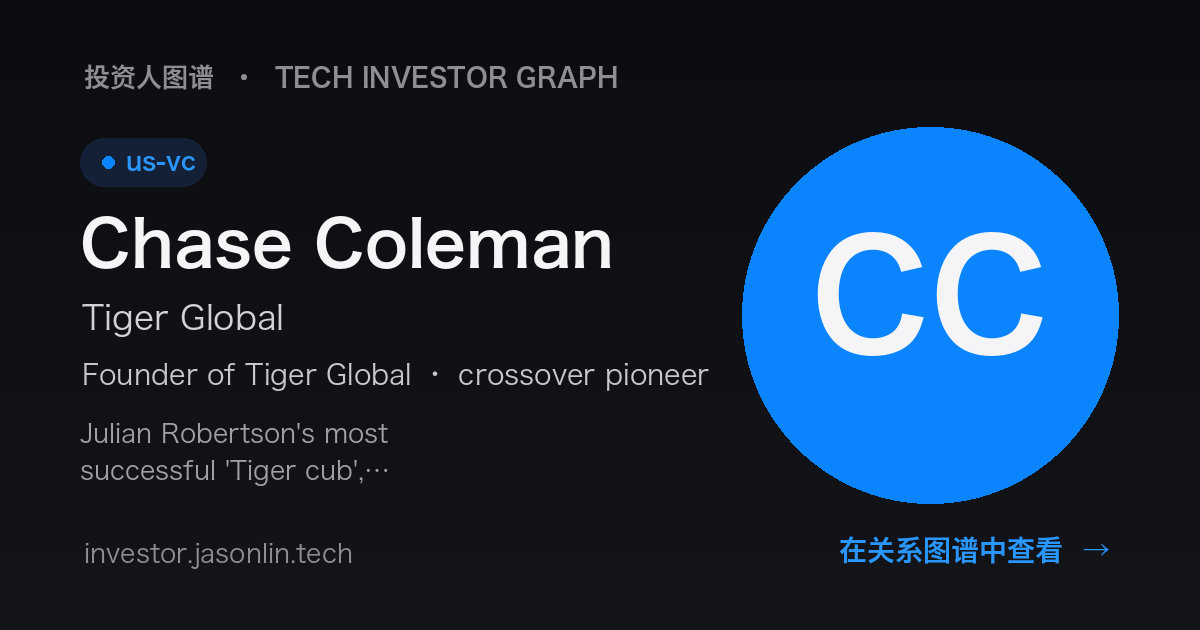
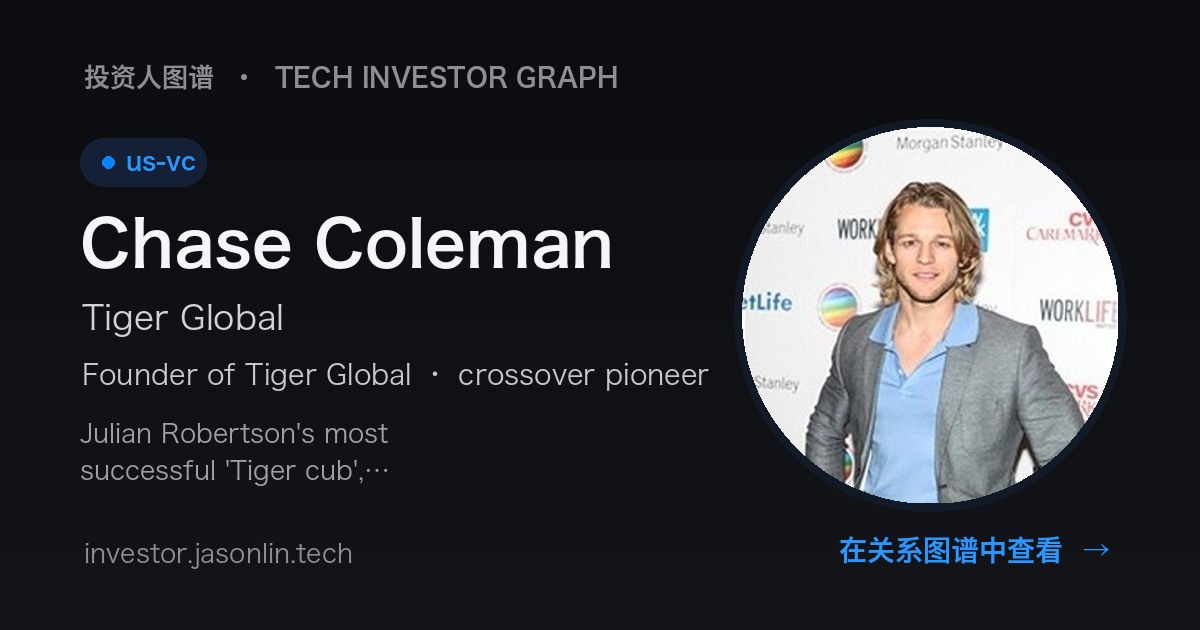
fix: 重生成 13 张无样式的人物分享页(生成器误取小 <style>)+ html lang=zh-CN
graph_share_pages.py 的 donor_parts 取第一个 <style>,而 2026-08-15 起页面 head 顶部多了一个几十字节的深色小块,导致此后生成的每一页都没有主样式表——黑底裸 HTML,用户点分享链接看到的就是这个。用真实浏览器截图才发现,四站共 46 页。

Claude-Session: https://claude.ai/code/session_01J8uaPH9eMgzrHih7Y7Prm5

Changed region(s): [[0.6167, 0.181, 0.9558, 0.8143]]

diff --git a/p/traviskalanick.html b/p/traviskalanick.html
@@ -17,20 +17,47 @@
 <meta name="twitter:title" content="Travis Kalanick"><meta name="twitter:description" content="Built Uber into a global category-definer before being forced out in 2017. Now runs CloudKitchens, a ghost-kitchen real-estate and robotics play value…">
 <meta name="twitter:image" content="https://investor.jasonlin.tech/og/traviskalanick.png">
 <script type="application/ld+json">{"@context": "https://schema.org", "@type": "ProfilePage", "mainEntity": {"@type": "Person", "name": "Travis Kalanick", "alternateName": "Travis Kalanick", "jobTitle": "Founder of Uber · CEO of CloudKitchens", "worksFor": {"@type": "Organization", "name": "CloudKitchens"}, "description": "Built Uber into a global category-definer before being forced out in 2017. Now runs CloudKitchens, a ghost-kitchen real-estate and robotics play value", "url": "https://investor.jasonlin.tech/p/traviskalanick.html", "image": "https://investor.jasonlin.tech/og/traviskalanick.png"}}</script>
-<style>:root{color-scheme:dark}html{background:#000}</style></head><body>
+<style>
+:root{--bg:#000;--card:#1d1d1f;--fg:#f5f5f7;--mut:#a1a1a6;--blue:#2997ff}
+*{box-sizing:border-box}body{margin:0;background:var(--bg);color:var(--fg);
+font-family:'PingFang SC','SF Pro Text',-apple-system,system-ui,Helvetica,Arial,sans-serif;line-height:1.6}
+.wrap{max-width:760px;margin:0 auto;padding:56px 24px 96px}
+.eyebrow{font-size:13px;letter-spacing:.12em;text-transform:uppercase;color:#86868b;text-decoration:none}
+h1{font-size:40px;margin:22px 0 6px;letter-spacing:-.01em}
+.org{font-size:20px;color:var(--mut);margin:0 0 4px}
+.role{font-size:18px;color:var(--blue);margin:10px 0 0;font-weight:600}
+.fields{margin:18px 0 0}.tag{display:inline-block;font-size:13px;color:var(--mut);border:1px solid #333;border-radius:999px;padding:3px 12px;margin:0 8px 8px 0}
+.bio{font-size:18px;color:#d2d2d7;margin:28px 0;white-space:pre-wrap}
+.avatar{width:108px;height:108px;border-radius:50%;object-fit:cover;display:block;margin:8px 0 4px;background:#1c1c1e;box-shadow:0 0 0 1px rgba(255,255,255,.1)}
+.avatar.mono{display:flex;align-items:center;justify-content:center;font:700 42px/1 'SF Pro Display',-apple-system,sans-serif;color:#fff;letter-spacing:.01em}
+.langtoggle{position:fixed;top:18px;right:20px;z-index:50;min-width:46px;padding:7px 14px;border-radius:999px;background:rgba(255,255,255,.08);color:var(--fg);border:1px solid rgba(255,255,255,.16);font:600 14px/1 'PingFang SC','SF Pro Text',-apple-system,system-ui,sans-serif;cursor:pointer;-webkit-tap-highlight-color:transparent;backdrop-filter:saturate(180%) blur(12px);-webkit-backdrop-filter:saturate(180%) blur(12px)}
+.langtoggle:hover{background:rgba(255,255,255,.16)}
+html.lang-zh .i18n-en{display:none}html.lang-en .i18n-zh{display:none}
+@media(max-width:520px){.langtoggle{top:12px;right:12px}}
+h2{font-size:14px;letter-spacing:.08em;text-transform:uppercase;color:#86868b;margin:40px 0 14px}
+ul{list-style:none;padding:0;margin:0}li{padding:8px 0;border-bottom:1px solid #1a1a1a;font-size:16px;color:#d2d2d7}
+.y{display:inline-block;min-width:52px;color:#6e6e73;font-variant-numeric:tabular-nums}
+li a,.bio a{color:var(--blue);text-decoration:none}
+.nbr{display:flex;flex-direction:column;padding:12px 14px;background:var(--card);border-radius:12px;margin:0 0 10px;text-decoration:none;color:var(--fg)}
+.nbr b{font-size:16px}.nbr span{font-size:13px;color:var(--mut);margin-top:2px}
+.cta{display:inline-block;margin:30px 12px 0 0;padding:14px 26px;background:var(--blue);color:#fff;border-radius:999px;text-decoration:none;font-weight:600;font-size:17px}
+.cta2{display:inline-block;margin:30px 0 0;padding:14px 26px;background:rgba(124,92,255,.16);color:#cbb9ff;border-radius:999px;text-decoration:none;font-weight:600;font-size:17px}
+.back{display:inline-block;margin-top:36px;color:var(--mut);text-decoration:none;font-size:15px}
+@media(max-width:520px){h1{font-size:32px}.wrap{padding:36px 18px 72px}}
+</style></head><body>
 <button class="langtoggle" id="langtoggle" type="button" aria-label="切换语言 / Toggle language"><span class="i18n-zh">EN</span><span class="i18n-en">中</span></button>
 <div class="wrap">
 <a class="eyebrow" href="/"><span class="i18n-zh">投资人图谱</span><span class="i18n-en">Tech Investor Graph</span> ↗</a>
-<div class="avatar mono" style="background:linear-gradient(145deg,#ff9f0aeb,#ff9f0a80);box-shadow:0 0 0 1px rgba(255,255,255,.08),0 0 0 7px #ff9f0a24">TK</div>
+<img class="avatar" src="/assets/people/traviskalanick.jpg" alt="Travis Kalanick" width="108" height="108" loading="eager">
 <h1><span class="i18n-zh">Travis Kalanick</span><span class="i18n-en">Travis Kalanick</span></h1>
 <p class="org">CloudKitchens</p>
 <p class="role"><span class="i18n-zh">Founder of Uber · CEO of CloudKitchens</span><span class="i18n-en">Founder of Uber · CEO of CloudKitchens</span></p>
 <div class="fields"><span class="tag">angel</span><span class="tag">early</span></div>
 <div class="bio i18n-zh">Built Uber into a global category-definer before being forced out in 2017. Now runs CloudKitchens, a ghost-kitchen real-estate and robotics play valued around $15B, and invests personally in automation. A case study in founder intensity — the trait that built the company and ended his tenure at it.</div><div class="bio i18n-en">Built Uber into a global category-definer before being forced out in 2017. Now runs CloudKitchens, a ghost-kitchen real-estate and robotics play valued around $15B, and invests personally in automation. A case study in founder intensity — the trait that built the company and ended his tenure at it.</div>
-<!--XLINKS_START--><p class="meta" style="font-size:13px;margin:10px 0">同一人物 · 姊妹站：<a href="https://aipodcast.jasonlin.tech/pp/traviskalanick/">听 TA 的播客访谈（AI Podcast）</a></p><!--XLINKS_END--><a class="cta" href="/?node=traviskalanick"><span class="i18n-zh">在关系图谱中查看 Travis Kalanick →</span><span class="i18n-en">View Travis Kalanick in the graph →</span></a>
+<a class="cta" href="/?node=traviskalanick"><span class="i18n-zh">在关系图谱中查看 Travis Kalanick →</span><span class="i18n-en">View Travis Kalanick in the graph →</span></a>
 <a class="cta2" href="https://aipodcast.jasonlin.tech/#/person/traviskalanick" rel="noopener"><span class="i18n-zh">听 Travis Kalanick 的 AI 播客 →</span><span class="i18n-en">Listen on AI Podcast →</span></a>
 
-<h2><span class="i18n-zh">时间线</span><span class="i18n-en">Timeline</span></h2><ul><li><span class="y">2009</span> 创办 Uber</li><li><span class="y">2017</span> 卸任 Uber CEO</li><li><span class="y">2018</span> 接手 CloudKitchens</li></ul>
+<h2><span class="i18n-zh">时间线</span><span class="i18n-en">Timeline</span></h2><ul></ul>
 <h2><span class="i18n-zh">关系网络</span><span class="i18n-en">Connections</span></h2>
 <a class="back" href="/"><span class="i18n-zh">← 返回完整图谱</span><span class="i18n-en">← Back to the graph</span></a>
 </div>

diff --git a/p/danshipper.html b/p/danshipper.html
@@ -17,20 +17,47 @@
 <meta name="twitter:title" content="Dan Shipper"><meta name="twitter:description" content="Runs Every, a media-and-software studio betting that writing about AI and building with it are the same job. Sold his first company (Firefly) while at…">
 <meta name="twitter:image" content="https://investor.jasonlin.tech/og/danshipper.png">
 <script type="application/ld+json">{"@context": "https://schema.org", "@type": "ProfilePage", "mainEntity": {"@type": "Person", "name": "Dan Shipper", "alternateName": "Dan Shipper", "jobTitle": "Co-founder & CEO of Every", "worksFor": {"@type": "Organization", "name": "Every"}, "description": "Runs Every, a media-and-software studio betting that writing about AI and building with it are the same job. Sold his first company (Firefly) while at", "url": "https://investor.jasonlin.tech/p/danshipper.html", "image": "https://investor.jasonlin.tech/og/danshipper.png"}}</script>
-<style>:root{color-scheme:dark}html{background:#000}</style></head><body>
+<style>
+:root{--bg:#000;--card:#1d1d1f;--fg:#f5f5f7;--mut:#a1a1a6;--blue:#2997ff}
+*{box-sizing:border-box}body{margin:0;background:var(--bg);color:var(--fg);
+font-family:'PingFang SC','SF Pro Text',-apple-system,system-ui,Helvetica,Arial,sans-serif;line-height:1.6}
+.wrap{max-width:760px;margin:0 auto;padding:56px 24px 96px}
+.eyebrow{font-size:13px;letter-spacing:.12em;text-transform:uppercase;color:#86868b;text-decoration:none}
+h1{font-size:40px;margin:22px 0 6px;letter-spacing:-.01em}
+.org{font-size:20px;color:var(--mut);margin:0 0 4px}
+.role{font-size:18px;color:var(--blue);margin:10px 0 0;font-weight:600}
+.fields{margin:18px 0 0}.tag{display:inline-block;font-size:13px;color:var(--mut);border:1px solid #333;border-radius:999px;padding:3px 12px;margin:0 8px 8px 0}
+.bio{font-size:18px;color:#d2d2d7;margin:28px 0;white-space:pre-wrap}
+.avatar{width:108px;height:108px;border-radius:50%;object-fit:cover;display:block;margin:8px 0 4px;background:#1c1c1e;box-shadow:0 0 0 1px rgba(255,255,255,.1)}
+.avatar.mono{display:flex;align-items:center;justify-content:center;font:700 42px/1 'SF Pro Display',-apple-system,sans-serif;color:#fff;letter-spacing:.01em}
+.langtoggle{position:fixed;top:18px;right:20px;z-index:50;min-width:46px;padding:7px 14px;border-radius:999px;background:rgba(255,255,255,.08);color:var(--fg);border:1px solid rgba(255,255,255,.16);font:600 14px/1 'PingFang SC','SF Pro Text',-apple-system,system-ui,sans-serif;cursor:pointer;-webkit-tap-highlight-color:transparent;backdrop-filter:saturate(180%) blur(12px);-webkit-backdrop-filter:saturate(180%) blur(12px)}
+.langtoggle:hover{background:rgba(255,255,255,.16)}
+html.lang-zh .i18n-en{display:none}html.lang-en .i18n-zh{display:none}
+@media(max-width:520px){.langtoggle{top:12px;right:12px}}
+h2{font-size:14px;letter-spacing:.08em;text-transform:uppercase;color:#86868b;margin:40px 0 14px}
+ul{list-style:none;padding:0;margin:0}li{padding:8px 0;border-bottom:1px solid #1a1a1a;font-size:16px;color:#d2d2d7}
+.y{display:inline-block;min-width:52px;color:#6e6e73;font-variant-numeric:tabular-nums}
+li a,.bio a{color:var(--blue);text-decoration:none}
+.nbr{display:flex;flex-direction:column;padding:12px 14px;background:var(--card);border-radius:12px;margin:0 0 10px;text-decoration:none;color:var(--fg)}
+.nbr b{font-size:16px}.nbr span{font-size:13px;color:var(--mut);margin-top:2px}
+.cta{display:inline-block;margin:30px 12px 0 0;padding:14px 26px;background:var(--blue);color:#fff;border-radius:999px;text-decoration:none;font-weight:600;font-size:17px}
+.cta2{display:inline-block;margin:30px 0 0;padding:14px 26px;background:rgba(124,92,255,.16);color:#cbb9ff;border-radius:999px;text-decoration:none;font-weight:600;font-size:17px}
+.back{display:inline-block;margin-top:36px;color:var(--mut);text-decoration:none;font-size:15px}
+@media(max-width:520px){h1{font-size:32px}.wrap{padding:36px 18px 72px}}
+</style></head><body>
 <button class="langtoggle" id="langtoggle" type="button" aria-label="切换语言 / Toggle language"><span class="i18n-zh">EN</span><span class="i18n-en">中</span></button>
 <div class="wrap">
 <a class="eyebrow" href="/"><span class="i18n-zh">投资人图谱</span><span class="i18n-en">Tech Investor Graph</span> ↗</a>
-<div class="avatar mono" style="background:linear-gradient(145deg,#ff9f0aeb,#ff9f0a80);box-shadow:0 0 0 1px rgba(255,255,255,.08),0 0 0 7px #ff9f0a24">DS</div>
+<img class="avatar" src="/assets/people/danshipper.jpg" alt="Dan Shipper" width="108" height="108" loading="eager">
 <h1><span class="i18n-zh">Dan Shipper</span><span class="i18n-en">Dan Shipper</span></h1>
 <p class="org">Every</p>
 <p class="role"><span class="i18n-zh">Co-founder &amp; CEO of Every</span><span class="i18n-en">Co-founder &amp; CEO of Every</span></p>
 <div class="fields"><span class="tag">angel</span></div>
 <div class="bio i18n-zh">Runs Every, a media-and-software studio betting that writing about AI and building with it are the same job. Sold his first company (Firefly) while at Penn. His &#x27;allocation economy&#x27; framing — that the scarce skill shifts from doing work to allocating it to models — has become a common reference for how knowledge work changes.</div><div class="bio i18n-en">Runs Every, a media-and-software studio betting that writing about AI and building with it are the same job. Sold his first company (Firefly) while at Penn. His &#x27;allocation economy&#x27; framing — that the scarce skill shifts from doing work to allocating it to models — has become a common reference for how knowledge work changes.</div>
-<!--XLINKS_START--><p class="meta" style="font-size:13px;margin:10px 0">同一人物 · 姊妹站：<a href="https://aipodcast.jasonlin.tech/pp/danshipper/">听 TA 的播客访谈（AI Podcast）</a></p><!--XLINKS_END--><a class="cta" href="/?node=danshipper"><span class="i18n-zh">在关系图谱中查看 Dan Shipper →</span><span class="i18n-en">View Dan Shipper in the graph →</span></a>
+<a class="cta" href="/?node=danshipper"><span class="i18n-zh">在关系图谱中查看 Dan Shipper →</span><span class="i18n-en">View Dan Shipper in the graph →</span></a>
 <a class="cta2" href="https://aipodcast.jasonlin.tech/#/person/danshipper" rel="noopener"><span class="i18n-zh">听 Dan Shipper 的 AI 播客 →</span><span class="i18n-en">Listen on AI Podcast →</span></a>
 
-<h2><span class="i18n-zh">时间线</span><span class="i18n-en">Timeline</span></h2><ul><li><span class="y">2020</span> 创办 Every</li><li><span class="y">2025</span> Every 推出多款 AI 产品</li></ul>
+<h2><span class="i18n-zh">时间线</span><span class="i18n-en">Timeline</span></h2><ul></ul>
 <h2><span class="i18n-zh">关系网络</span><span class="i18n-en">Connections</span></h2>
 <a class="back" href="/"><span class="i18n-zh">← 返回完整图谱</span><span class="i18n-en">← Back to the graph</span></a>
 </div>

diff --git a/p/chasecoleman.html b/p/chasecoleman.html
@@ -17,11 +17,38 @@
 <meta name="twitter:title" content="Chase Coleman"><meta name="twitter:description" content="Julian Robertson&#x27;s most successful &#x27;Tiger cub&#x27;, who invented the modern crossover playbook — one firm straddling public equities and late-stage privat…">
 <meta name="twitter:image" content="https://investor.jasonlin.tech/og/chasecoleman.png">
 <script type="application/ld+json">{"@context": "https://schema.org", "@type": "ProfilePage", "mainEntity": {"@type": "Person", "name": "Chase Coleman", "alternateName": "Chase Coleman", "jobTitle": "Founder of Tiger Global · crossover pioneer", "worksFor": {"@type": "Organization", "name": "Tiger Global"}, "description": "Julian Robertson's most successful 'Tiger cub', who invented the modern crossover playbook — one firm straddling public equities and late-stage privat", "url": "https://investor.jasonlin.tech/p/chasecoleman.html", "image": "https://investor.jasonlin.tech/og/chasecoleman.png"}}</script>
-<style>:root{color-scheme:dark}html{background:#000}</style></head><body>
+<style>
+:root{--bg:#000;--card:#1d1d1f;--fg:#f5f5f7;--mut:#a1a1a6;--blue:#2997ff}
+*{box-sizing:border-box}body{margin:0;background:var(--bg);color:var(--fg);
+font-family:'PingFang SC','SF Pro Text',-apple-system,system-ui,Helvetica,Arial,sans-serif;line-height:1.6}
+.wrap{max-width:760px;margin:0 auto;padding:56px 24px 96px}
+.eyebrow{font-size:13px;letter-spacing:.12em;text-transform:uppercase;color:#86868b;text-decoration:none}
+h1{font-size:40px;margin:22px 0 6px;letter-spacing:-.01em}
+.org{font-size:20px;color:var(--mut);margin:0 0 4px}
+.role{font-size:18px;color:var(--blue);margin:10px 0 0;font-weight:600}
+.fields{margin:18px 0 0}.tag{display:inline-block;font-size:13px;color:var(--mut);border:1px solid #333;border-radius:999px;padding:3px 12px;margin:0 8px 8px 0}
+.bio{font-size:18px;color:#d2d2d7;margin:28px 0;white-space:pre-wrap}
+.avatar{width:108px;height:108px;border-radius:50%;object-fit:cover;display:block;margin:8px 0 4px;background:#1c1c1e;box-shadow:0 0 0 1px rgba(255,255,255,.1)}
+.avatar.mono{display:flex;align-items:center;justify-content:center;font:700 42px/1 'SF Pro Display',-apple-system,sans-serif;color:#fff;letter-spacing:.01em}
+.langtoggle{position:fixed;top:18px;right:20px;z-index:50;min-width:46px;padding:7px 14px;border-radius:999px;background:rgba(255,255,255,.08);color:var(--fg);border:1px solid rgba(255,255,255,.16);font:600 14px/1 'PingFang SC','SF Pro Text',-apple-system,system-ui,sans-serif;cursor:pointer;-webkit-tap-highlight-color:transparent;backdrop-filter:saturate(180%) blur(12px);-webkit-backdrop-filter:saturate(180%) blur(12px)}
+.langtoggle:hover{background:rgba(255,255,255,.16)}
+html.lang-zh .i18n-en{display:none}html.lang-en .i18n-zh{display:none}
+@media(max-width:520px){.langtoggle{top:12px;right:12px}}
+h2{font-size:14px;letter-spacing:.08em;text-transform:uppercase;color:#86868b;margin:40px 0 14px}
+ul{list-style:none;padding:0;margin:0}li{padding:8px 0;border-bottom:1px solid #1a1a1a;font-size:16px;color:#d2d2d7}
+.y{display:inline-block;min-width:52px;color:#6e6e73;font-variant-numeric:tabular-nums}
+li a,.bio a{color:var(--blue);text-decoration:none}
+.nbr{display:flex;flex-direction:column;padding:12px 14px;background:var(--card);border-radius:12px;margin:0 0 10px;text-decoration:none;color:var(--fg)}
+.nbr b{font-size:16px}.nbr span{font-size:13px;color:var(--mut);margin-top:2px}
+.cta{display:inline-block;margin:30px 12px 0 0;padding:14px 26px;background:var(--blue);color:#fff;border-radius:999px;text-decoration:none;font-weight:600;font-size:17px}
+.cta2{display:inline-block;margin:30px 0 0;padding:14px 26px;background:rgba(124,92,255,.16);color:#cbb9ff;border-radius:999px;text-decoration:none;font-weight:600;font-size:17px}
+.back{display:inline-block;margin-top:36px;color:var(--mut);text-decoration:none;font-size:15px}
+@media(max-width:520px){h1{font-size:32px}.wrap{padding:36px 18px 72px}}
+</style></head><body>
 <button class="langtoggle" id="langtoggle" type="button" aria-label="切换语言 / Toggle language"><span class="i18n-zh">EN</span><span class="i18n-en">中</span></button>
 <div class="wrap">
 <a class="eyebrow" href="/"><span class="i18n-zh">投资人图谱</span><span class="i18n-en">Tech Investor Graph</span> ↗</a>
-<div class="avatar mono" style="background:linear-gradient(145deg,#0a84ffeb,#0a84ff80);box-shadow:0 0 0 1px rgba(255,255,255,.08),0 0 0 7px #0a84ff24">CC</div>
+<img class="avatar" src="/assets/people/chasecoleman.jpg" alt="Chase Coleman" width="108" height="108" loading="eager">
 <h1><span class="i18n-zh">Chase Coleman</span><span class="i18n-en">Chase Coleman</span></h1>
 <p class="org">Tiger Global</p>
 <p class="role"><span class="i18n-zh">Founder of Tiger Global · crossover pioneer</span><span class="i18n-en">Founder of Tiger Global · crossover pioneer</span></p>
@@ -29,7 +56,7 @@
 <div class="bio i18n-zh">Julian Robertson&#x27;s most successful &#x27;Tiger cub&#x27;, who invented the modern crossover playbook — one firm straddling public equities and late-stage private tech at industrial speed. After the 2022 drawdown that playbook looked dead; the AI supercycle revived it, with Tiger back in mega-rounds including OpenAI and xAI. The firm&#x27;s arc is the cleanest evidence that when private returns beat public ones, public capital migrates.</div><div class="bio i18n-en">Julian Robertson&#x27;s most successful &#x27;Tiger cub&#x27;, who invented the modern crossover playbook — one firm straddling public equities and late-stage private tech at industrial speed. After the 2022 drawdown that playbook looked dead; the AI supercycle revived it, with Tiger back in mega-rounds including OpenAI and xAI. The firm&#x27;s arc is the cleanest evidence that when private returns beat public ones, public capital migrates.</div>
 <a class="cta" href="/?node=chasecoleman"><span class="i18n-zh">在关系图谱中查看 Chase Coleman →</span><span class="i18n-en">View Chase Coleman in the graph →</span></a>
 
-<h2><span class="i18n-zh">时间线</span><span class="i18n-en">Timeline</span></h2><ul><li><span class="y">2001</span> 创办 Tiger Global</li><li><span class="y">2021</span> 一年投出 300+ 笔(巅峰)</li><li><span class="y">2022</span> 基金回撤 -56%</li><li><span class="y">2025</span> AI 大轮回归(OpenAI/xAI)</li></ul>
+<h2><span class="i18n-zh">时间线</span><span class="i18n-en">Timeline</span></h2><ul></ul>
 <h2><span class="i18n-zh">关系网络</span><span class="i18n-en">Connections</span></h2>
 <a class="back" href="/"><span class="i18n-zh">← 返回完整图谱</span><span class="i18n-en">← Back to the graph</span></a>
 </div>

diff --git a/p/ronconway.html b/p/ronconway.html
@@ -17,11 +17,38 @@
 <meta name="twitter:title" content="Ron Conway"><meta name="twitter:description" content="Silicon Valley&#x27;s original super-angel: early checks into Google, Facebook, Twitter, Airbnb and hundreds more through SV Angel. Built the volume-angel …">
 <meta name="twitter:image" content="https://investor.jasonlin.tech/og/ronconway.png">
 <script type="application/ld+json">{"@context": "https://schema.org", "@type": "ProfilePage", "mainEntity": {"@type": "Person", "name": "Ron Conway", "alternateName": "Ron Conway", "jobTitle": "Founder of SV Angel · the godfather of angels", "worksFor": {"@type": "Organization", "name": "SV Angel"}, "description": "Silicon Valley's original super-angel: early checks into Google, Facebook, Twitter, Airbnb and hundreds more through SV Angel. Built the volume-angel ", "url": "https://investor.jasonlin.tech/p/ronconway.html", "image": "https://investor.jasonlin.tech/og/ronconway.png"}}</script>
-<style>:root{color-scheme:dark}html{background:#000}</style></head><body>
+<style>
+:root{--bg:#000;--card:#1d1d1f;--fg:#f5f5f7;--mut:#a1a1a6;--blue:#2997ff}
+*{box-sizing:border-box}body{margin:0;background:var(--bg);color:var(--fg);
+font-family:'PingFang SC','SF Pro Text',-apple-system,system-ui,Helvetica,Arial,sans-serif;line-height:1.6}
+.wrap{max-width:760px;margin:0 auto;padding:56px 24px 96px}
+.eyebrow{font-size:13px;letter-spacing:.12em;text-transform:uppercase;color:#86868b;text-decoration:none}
+h1{font-size:40px;margin:22px 0 6px;letter-spacing:-.01em}
+.org{font-size:20px;color:var(--mut);margin:0 0 4px}
+.role{font-size:18px;color:var(--blue);margin:10px 0 0;font-weight:600}
+.fields{margin:18px 0 0}.tag{display:inline-block;font-size:13px;color:var(--mut);border:1px solid #333;border-radius:999px;padding:3px 12px;margin:0 8px 8px 0}
+.bio{font-size:18px;color:#d2d2d7;margin:28px 0;white-space:pre-wrap}
+.avatar{width:108px;height:108px;border-radius:50%;object-fit:cover;display:block;margin:8px 0 4px;background:#1c1c1e;box-shadow:0 0 0 1px rgba(255,255,255,.1)}
+.avatar.mono{display:flex;align-items:center;justify-content:center;font:700 42px/1 'SF Pro Display',-apple-system,sans-serif;color:#fff;letter-spacing:.01em}
+.langtoggle{position:fixed;top:18px;right:20px;z-index:50;min-width:46px;padding:7px 14px;border-radius:999px;background:rgba(255,255,255,.08);color:var(--fg);border:1px solid rgba(255,255,255,.16);font:600 14px/1 'PingFang SC','SF Pro Text',-apple-system,system-ui,sans-serif;cursor:pointer;-webkit-tap-highlight-color:transparent;backdrop-filter:saturate(180%) blur(12px);-webkit-backdrop-filter:saturate(180%) blur(12px)}
+.langtoggle:hover{background:rgba(255,255,255,.16)}
+html.lang-zh .i18n-en{display:none}html.lang-en .i18n-zh{display:none}
+@media(max-width:520px){.langtoggle{top:12px;right:12px}}
+h2{font-size:14px;letter-spacing:.08em;text-transform:uppercase;color:#86868b;margin:40px 0 14px}
+ul{list-style:none;padding:0;margin:0}li{padding:8px 0;border-bottom:1px solid #1a1a1a;font-size:16px;color:#d2d2d7}
+.y{display:inline-block;min-width:52px;color:#6e6e73;font-variant-numeric:tabular-nums}
+li a,.bio a{color:var(--blue);text-decoration:none}
+.nbr{display:flex;flex-direction:column;padding:12px 14px;background:var(--card);border-radius:12px;margin:0 0 10px;text-decoration:none;color:var(--fg)}
+.nbr b{font-size:16px}.nbr span{font-size:13px;color:var(--mut);margin-top:2px}
+.cta{display:inline-block;margin:30px 12px 0 0;padding:14px 26px;background:var(--blue);color:#fff;border-radius:999px;text-decoration:none;font-weight:600;font-size:17px}
+.cta2{display:inline-block;margin:30px 0 0;padding:14px 26px;background:rgba(124,92,255,.16);color:#cbb9ff;border-radius:999px;text-decoration:none;font-weight:600;font-size:17px}
+.back{display:inline-block;margin-top:36px;color:var(--mut);text-decoration:none;font-size:15px}
+@media(max-width:520px){h1{font-size:32px}.wrap{padding:36px 18px 72px}}
+</style></head><body>
 <button class="langtoggle" id="langtoggle" type="button" aria-label="切换语言 / Toggle language"><span class="i18n-zh">EN</span><span class="i18n-en">中</span></button>
 <div class="wrap">
 <a class="eyebrow" href="/"><span class="i18n-zh">投资人图谱</span><span class="i18n-en">Tech Investor Graph</span> ↗</a>
-<div class="avatar mono" style="background:linear-gradient(145deg,#ff9f0aeb,#ff9f0a80);box-shadow:0 0 0 1px rgba(255,255,255,.08),0 0 0 7px #ff9f0a24">RC</div>
+<img class="avatar" src="/assets/people/ronconway.jpg" alt="Ron Conway" width="108" height="108" loading="eager">
 <h1><span class="i18n-zh">Ron Conway</span><span class="i18n-en">Ron Conway</span></h1>
 <p class="org">SV Angel</p>
 <p class="role"><span class="i18n-zh">Founder of SV Angel · the godfather of angels</span><span class="i18n-en">Founder of SV Angel · the godfather of angels</span></p>
@@ -29,7 +56,7 @@
 <div class="bio i18n-zh">Silicon Valley&#x27;s original super-angel: early checks into Google, Facebook, Twitter, Airbnb and hundreds more through SV Angel. Built the volume-angel model that ZhenFund later localized in China. Less a stock picker than a network operator — his bet is always the founder graph itself.</div><div class="bio i18n-en">Silicon Valley&#x27;s original super-angel: early checks into Google, Facebook, Twitter, Airbnb and hundreds more through SV Angel. Built the volume-angel model that ZhenFund later localized in China. Less a stock picker than a network operator — his bet is always the founder graph itself.</div>
 <a class="cta" href="/?node=ronconway"><span class="i18n-zh">在关系图谱中查看 Ron Conway →</span><span class="i18n-en">View Ron Conway in the graph →</span></a>
 
-<h2><span class="i18n-zh">时间线</span><span class="i18n-en">Timeline</span></h2><ul><li><span class="y">1998</span> 天使投资 Google</li><li><span class="y">2009</span> 创办 SV Angel</li><li><span class="y">2012</span> 投资组合破 500 家</li></ul>
+<h2><span class="i18n-zh">时间线</span><span class="i18n-en">Timeline</span></h2><ul></ul>
 <h2><span class="i18n-zh">关系网络</span><span class="i18n-en">Connections</span></h2>
 <a class="back" href="/"><span class="i18n-zh">← 返回完整图谱</span><span class="i18n-en">← Back to the graph</span></a>
 </div>

diff --git a/p/timtully.html b/p/timtully.html
@@ -17,7 +17,34 @@
 <meta name="twitter:title" content="Tim Tully"><meta name="twitter:description" content="Menlo Ventures AI 团队合伙人,曾任 Splunk 首席技术官,带来数据基础设施领域的实操经验。他是 Menlo 与 Anthropic 联合运作的 1 亿美元 Anthology 种子基金背后的核心投资人之一,该基金已投出 60 多家前沿 AI 公司、实现三笔退出。…">
 <meta name="twitter:image" content="https://investor.jasonlin.tech/og/timtully.png">
 <script type="application/ld+json">{"@context": "https://schema.org", "@type": "ProfilePage", "mainEntity": {"@type": "Person", "name": "Tim Tully", "alternateName": "蒂姆·塔利", "jobTitle": "Partner at Menlo · Ex-CTO of Splunk", "worksFor": {"@type": "Organization", "name": "Menlo Ventures"}, "description": "Menlo Ventures AI 团队合伙人,曾任 Splunk 首席技术官,带来数据基础设施领域的实操经验。他是 Menlo 与 Anthropic 联合运作的 1 亿美元 Anthology 种子基金背后的核心投资人之一,该基金已投出 60 多家前沿 AI 公司、实现三笔退出。", "url": "https://investor.jasonlin.tech/p/timtully.html", "image": "https://investor.jasonlin.tech/og/timtully.png"}}</script>
-<style>:root{color-scheme:dark}html{background:#000}</style></head><body>
+<style>
+:root{--bg:#000;--card:#1d1d1f;--fg:#f5f5f7;--mut:#a1a1a6;--blue:#2997ff}
+*{box-sizing:border-box}body{margin:0;background:var(--bg);color:var(--fg);
+font-family:'PingFang SC','SF Pro Text',-apple-system,system-ui,Helvetica,Arial,sans-serif;line-height:1.6}
+.wrap{max-width:760px;margin:0 auto;padding:56px 24px 96px}
+.eyebrow{font-size:13px;letter-spacing:.12em;text-transform:uppercase;color:#86868b;text-decoration:none}
+h1{font-size:40px;margin:22px 0 6px;letter-spacing:-.01em}
+.org{font-size:20px;color:var(--mut);margin:0 0 4px}
+.role{font-size:18px;color:var(--blue);margin:10px 0 0;font-weight:600}
+.fields{margin:18px 0 0}.tag{display:inline-block;font-size:13px;color:var(--mut);border:1px solid #333;border-radius:999px;padding:3px 12px;margin:0 8px 8px 0}
+.bio{font-size:18px;color:#d2d2d7;margin:28px 0;white-space:pre-wrap}
+.avatar{width:108px;height:108px;border-radius:50%;object-fit:cover;display:block;margin:8px 0 4px;background:#1c1c1e;box-shadow:0 0 0 1px rgba(255,255,255,.1)}
+.avatar.mono{display:flex;align-items:center;justify-content:center;font:700 42px/1 'SF Pro Display',-apple-system,sans-serif;color:#fff;letter-spacing:.01em}
+.langtoggle{position:fixed;top:18px;right:20px;z-index:50;min-width:46px;padding:7px 14px;border-radius:999px;background:rgba(255,255,255,.08);color:var(--fg);border:1px solid rgba(255,255,255,.16);font:600 14px/1 'PingFang SC','SF Pro Text',-apple-system,system-ui,sans-serif;cursor:pointer;-webkit-tap-highlight-color:transparent;backdrop-filter:saturate(180%) blur(12px);-webkit-backdrop-filter:saturate(180%) blur(12px)}
+.langtoggle:hover{background:rgba(255,255,255,.16)}
+html.lang-zh .i18n-en{display:none}html.lang-en .i18n-zh{display:none}
+@media(max-width:520px){.langtoggle{top:12px;right:12px}}
+h2{font-size:14px;letter-spacing:.08em;text-transform:uppercase;color:#86868b;margin:40px 0 14px}
+ul{list-style:none;padding:0;margin:0}li{padding:8px 0;border-bottom:1px solid #1a1a1a;font-size:16px;color:#d2d2d7}
+.y{display:inline-block;min-width:52px;color:#6e6e73;font-variant-numeric:tabular-nums}
+li a,.bio a{color:var(--blue);text-decoration:none}
+.nbr{display:flex;flex-direction:column;padding:12px 14px;background:var(--card);border-radius:12px;margin:0 0 10px;text-decoration:none;color:var(--fg)}
+.nbr b{font-size:16px}.nbr span{font-size:13px;color:var(--mut);margin-top:2px}
+.cta{display:inline-block;margin:30px 12px 0 0;padding:14px 26px;background:var(--blue);color:#fff;border-radius:999px;text-decoration:none;font-weight:600;font-size:17px}
+.cta2{display:inline-block;margin:30px 0 0;padding:14px 26px;background:rgba(124,92,255,.16);color:#cbb9ff;border-radius:999px;text-decoration:none;font-weight:600;font-size:17px}
+.back{display:inline-block;margin-top:36px;color:var(--mut);text-decoration:none;font-size:15px}
+@media(max-width:520px){h1{font-size:32px}.wrap{padding:36px 18px 72px}}
+</style></head><body>
 <button class="langtoggle" id="langtoggle" type="button" aria-label="切换语言 / Toggle language"><span class="i18n-zh">EN</span><span class="i18n-en">中</span></button>
 <div class="wrap">
 <a class="eyebrow" href="/"><span class="i18n-zh">投资人图谱</span><span class="i18n-en">Tech Investor Graph</span> ↗</a>

diff --git a/p/peterfenton.html b/p/peterfenton.html
@@ -17,7 +17,34 @@
 <meta name="twitter:title" content="Peter Fenton"><meta name="twitter:description" content="Benchmark 任职最久的全职合伙人,退出案例包括 Twitter、Yelp 与 Elastic。AI 周期中他带 Benchmark 投进 Sierra——Bret Taylor 的客服 agent 公司,估值已超 150 亿美元。Benchmark 刻意维持小规模、平权合伙制,不设成长基金、…">
 <meta name="twitter:image" content="https://investor.jasonlin.tech/og/peterfenton.png">
 <script type="application/ld+json">{"@context": "https://schema.org", "@type": "ProfilePage", "mainEntity": {"@type": "Person", "name": "Peter Fenton", "alternateName": "彼得·芬顿", "jobTitle": "General Partner at Benchmark · Longest-Serving Partner", "worksFor": {"@type": "Organization", "name": "Benchmark"}, "description": "Benchmark 任职最久的全职合伙人,退出案例包括 Twitter、Yelp 与 Elastic。AI 周期中他带 Benchmark 投进 Sierra——Bret Taylor 的客服 agent 公司,估值已超 150 亿美元。Benchmark 刻意维持小规模、平权合伙制,不设成长基金、", "url": "https://investor.jasonlin.tech/p/peterfenton.html", "image": "https://investor.jasonlin.tech/og/peterfenton.png"}}</script>
-<style>:root{color-scheme:dark}html{background:#000}</style></head><body>
+<style>
+:root{--bg:#000;--card:#1d1d1f;--fg:#f5f5f7;--mut:#a1a1a6;--blue:#2997ff}
+*{box-sizing:border-box}body{margin:0;background:var(--bg);color:var(--fg);
+font-family:'PingFang SC','SF Pro Text',-apple-system,system-ui,Helvetica,Arial,sans-serif;line-height:1.6}
+.wrap{max-width:760px;margin:0 auto;padding:56px 24px 96px}
+.eyebrow{font-size:13px;letter-spacing:.12em;text-transform:uppercase;color:#86868b;text-decoration:none}
+h1{font-size:40px;margin:22px 0 6px;letter-spacing:-.01em}
+.org{font-size:20px;color:var(--mut);margin:0 0 4px}
+.role{font-size:18px;color:var(--blue);margin:10px 0 0;font-weight:600}
+.fields{margin:18px 0 0}.tag{display:inline-block;font-size:13px;color:var(--mut);border:1px solid #333;border-radius:999px;padding:3px 12px;margin:0 8px 8px 0}
+.bio{font-size:18px;color:#d2d2d7;margin:28px 0;white-space:pre-wrap}
+.avatar{width:108px;height:108px;border-radius:50%;object-fit:cover;display:block;margin:8px 0 4px;background:#1c1c1e;box-shadow:0 0 0 1px rgba(255,255,255,.1)}
+.avatar.mono{display:flex;align-items:center;justify-content:center;font:700 42px/1 'SF Pro Display',-apple-system,sans-serif;color:#fff;letter-spacing:.01em}
+.langtoggle{position:fixed;top:18px;right:20px;z-index:50;min-width:46px;padding:7px 14px;border-radius:999px;background:rgba(255,255,255,.08);color:var(--fg);border:1px solid rgba(255,255,255,.16);font:600 14px/1 'PingFang SC','SF Pro Text',-apple-system,system-ui,sans-serif;cursor:pointer;-webkit-tap-highlight-color:transparent;backdrop-filter:saturate(180%) blur(12px);-webkit-backdrop-filter:saturate(180%) blur(12px)}
+.langtoggle:hover{background:rgba(255,255,255,.16)}
+html.lang-zh .i18n-en{display:none}html.lang-en .i18n-zh{display:none}
+@media(max-width:520px){.langtoggle{top:12px;right:12px}}
+h2{font-size:14px;letter-spacing:.08em;text-transform:uppercase;color:#86868b;margin:40px 0 14px}
+ul{list-style:none;padding:0;margin:0}li{padding:8px 0;border-bottom:1px solid #1a1a1a;font-size:16px;color:#d2d2d7}
+.y{display:inline-block;min-width:52px;color:#6e6e73;font-variant-numeric:tabular-nums}
+li a,.bio a{color:var(--blue);text-decoration:none}
+.nbr{display:flex;flex-direction:column;padding:12px 14px;background:var(--card);border-radius:12px;margin:0 0 10px;text-decoration:none;color:var(--fg)}
+.nbr b{font-size:16px}.nbr span{font-size:13px;color:var(--mut);margin-top:2px}
+.cta{display:inline-block;margin:30px 12px 0 0;padding:14px 26px;background:var(--blue);color:#fff;border-radius:999px;text-decoration:none;font-weight:600;font-size:17px}
+.cta2{display:inline-block;margin:30px 0 0;padding:14px 26px;background:rgba(124,92,255,.16);color:#cbb9ff;border-radius:999px;text-decoration:none;font-weight:600;font-size:17px}
+.back{display:inline-block;margin-top:36px;color:var(--mut);text-decoration:none;font-size:15px}
+@media(max-width:520px){h1{font-size:32px}.wrap{padding:36px 18px 72px}}
+</style></head><body>
 <button class="langtoggle" id="langtoggle" type="button" aria-label="切换语言 / Toggle language"><span class="i18n-zh">EN</span><span class="i18n-en">中</span></button>
 <div class="wrap">
 <a class="eyebrow" href="/"><span class="i18n-zh">投资人图谱</span><span class="i18n-en">Tech Investor Graph</span> ↗</a>

diff --git a/p/venkyganesan.html b/p/venkyganesan.html
@@ -17,7 +17,34 @@
 <meta name="twitter:title" content="Venky Ganesan"><meta name="twitter:description" content="Menlo Ventures 合伙人。Menlo 累计投入 Anthropic 的 10 亿美元,在这家实验室估值逼近 1 万亿之际已值约 140 亿——可以说是本轮 AI 周期最成功的单笔风险投资持仓。2026 年 6 月 Menlo 募集 30 亿美元(Fund XVII + Inflectio…">
 <meta name="twitter:image" content="https://investor.jasonlin.tech/og/venkyganesan.png">
 <script type="application/ld+json">{"@context": "https://schema.org", "@type": "ProfilePage", "mainEntity": {"@type": "Person", "name": "Venky Ganesan", "alternateName": "文基·加内桑", "jobTitle": "Partner at Menlo · The Anthropic Bet", "worksFor": {"@type": "Organization", "name": "Menlo Ventures"}, "description": "Menlo Ventures 合伙人。Menlo 累计投入 Anthropic 的 10 亿美元,在这家实验室估值逼近 1 万亿之际已值约 140 亿——可以说是本轮 AI 周期最成功的单笔风险投资持仓。2026 年 6 月 Menlo 募集 30 亿美元(Fund XVII + Inflectio", "url": "https://investor.jasonlin.tech/p/venkyganesan.html", "image": "https://investor.jasonlin.tech/og/venkyganesan.png"}}</script>
-<style>:root{color-scheme:dark}html{background:#000}</style></head><body>
+<style>
+:root{--bg:#000;--card:#1d1d1f;--fg:#f5f5f7;--mut:#a1a1a6;--blue:#2997ff}
+*{box-sizing:border-box}body{margin:0;background:var(--bg);color:var(--fg);
+font-family:'PingFang SC','SF Pro Text',-apple-system,system-ui,Helvetica,Arial,sans-serif;line-height:1.6}
+.wrap{max-width:760px;margin:0 auto;padding:56px 24px 96px}
+.eyebrow{font-size:13px;letter-spacing:.12em;text-transform:uppercase;color:#86868b;text-decoration:none}
+h1{font-size:40px;margin:22px 0 6px;letter-spacing:-.01em}
+.org{font-size:20px;color:var(--mut);margin:0 0 4px}
+.role{font-size:18px;color:var(--blue);margin:10px 0 0;font-weight:600}
+.fields{margin:18px 0 0}.tag{display:inline-block;font-size:13px;color:var(--mut);border:1px solid #333;border-radius:999px;padding:3px 12px;margin:0 8px 8px 0}
+.bio{font-size:18px;color:#d2d2d7;margin:28px 0;white-space:pre-wrap}
+.avatar{width:108px;height:108px;border-radius:50%;object-fit:cover;display:block;margin:8px 0 4px;background:#1c1c1e;box-shadow:0 0 0 1px rgba(255,255,255,.1)}
+.avatar.mono{display:flex;align-items:center;justify-content:center;font:700 42px/1 'SF Pro Display',-apple-system,sans-serif;color:#fff;letter-spacing:.01em}
+.langtoggle{position:fixed;top:18px;right:20px;z-index:50;min-width:46px;padding:7px 14px;border-radius:999px;background:rgba(255,255,255,.08);color:var(--fg);border:1px solid rgba(255,255,255,.16);font:600 14px/1 'PingFang SC','SF Pro Text',-apple-system,system-ui,sans-serif;cursor:pointer;-webkit-tap-highlight-color:transparent;backdrop-filter:saturate(180%) blur(12px);-webkit-backdrop-filter:saturate(180%) blur(12px)}
+.langtoggle:hover{background:rgba(255,255,255,.16)}
+html.lang-zh .i18n-en{display:none}html.lang-en .i18n-zh{display:none}
+@media(max-width:520px){.langtoggle{top:12px;right:12px}}
+h2{font-size:14px;letter-spacing:.08em;text-transform:uppercase;color:#86868b;margin:40px 0 14px}
+ul{list-style:none;padding:0;margin:0}li{padding:8px 0;border-bottom:1px solid #1a1a1a;font-size:16px;color:#d2d2d7}
+.y{display:inline-block;min-width:52px;color:#6e6e73;font-variant-numeric:tabular-nums}
+li a,.bio a{color:var(--blue);text-decoration:none}
+.nbr{display:flex;flex-direction:column;padding:12px 14px;background:var(--card);border-radius:12px;margin:0 0 10px;text-decoration:none;color:var(--fg)}
+.nbr b{font-size:16px}.nbr span{font-size:13px;color:var(--mut);margin-top:2px}
+.cta{display:inline-block;margin:30px 12px 0 0;padding:14px 26px;background:var(--blue);color:#fff;border-radius:999px;text-decoration:none;font-weight:600;font-size:17px}
+.cta2{display:inline-block;margin:30px 0 0;padding:14px 26px;background:rgba(124,92,255,.16);color:#cbb9ff;border-radius:999px;text-decoration:none;font-weight:600;font-size:17px}
+.back{display:inline-block;margin-top:36px;color:var(--mut);text-decoration:none;font-size:15px}
+@media(max-width:520px){h1{font-size:32px}.wrap{padding:36px 18px 72px}}
+</style></head><body>
 <button class="langtoggle" id="langtoggle" type="button" aria-label="切换语言 / Toggle language"><span class="i18n-zh">EN</span><span class="i18n-en">中</span></button>
 <div class="wrap">
 <a class="eyebrow" href="/"><span class="i18n-zh">投资人图谱</span><span class="i18n-en">Tech Investor Graph</span> ↗</a>

diff --git a/p/mikevolpi.html b/p/mikevolpi.html
@@ -17,7 +17,34 @@
 <meta name="twitter:title" content="Mike Volpi"><meta name="twitter:description" content="思科前首席战略官,后加入 Index Ventures,2026 年 Midas List 排名第 55。以基础设施与开源投资著称(Confluent、Elastic、Sonos、Aurora)。2025 年与 Index 同事 Bryan Offutt、Ishani Thakur 共同创立早期基金…">
 <meta name="twitter:image" content="https://investor.jasonlin.tech/og/mikevolpi.png">
 <script type="application/ld+json">{"@context": "https://schema.org", "@type": "ProfilePage", "mainEntity": {"@type": "Person", "name": "Mike Volpi", "alternateName": "迈克·沃尔皮", "jobTitle": "Partner at Index · Founder of Hanabi Capital", "worksFor": {"@type": "Organization", "name": "Index Ventures / Hanabi Capital"}, "description": "思科前首席战略官,后加入 Index Ventures,2026 年 Midas List 排名第 55。以基础设施与开源投资著称(Confluent、Elastic、Sonos、Aurora)。2025 年与 Index 同事 Bryan Offutt、Ishani Thakur 共同创立早期基金", "url": "https://investor.jasonlin.tech/p/mikevolpi.html", "image": "https://investor.jasonlin.tech/og/mikevolpi.png"}}</script>
-<style>:root{color-scheme:dark}html{background:#000}</style></head><body>
+<style>
+:root{--bg:#000;--card:#1d1d1f;--fg:#f5f5f7;--mut:#a1a1a6;--blue:#2997ff}
+*{box-sizing:border-box}body{margin:0;background:var(--bg);color:var(--fg);
+font-family:'PingFang SC','SF Pro Text',-apple-system,system-ui,Helvetica,Arial,sans-serif;line-height:1.6}
+.wrap{max-width:760px;margin:0 auto;padding:56px 24px 96px}
+.eyebrow{font-size:13px;letter-spacing:.12em;text-transform:uppercase;color:#86868b;text-decoration:none}
+h1{font-size:40px;margin:22px 0 6px;letter-spacing:-.01em}
+.org{font-size:20px;color:var(--mut);margin:0 0 4px}
+.role{font-size:18px;color:var(--blue);margin:10px 0 0;font-weight:600}
+.fields{margin:18px 0 0}.tag{display:inline-block;font-size:13px;color:var(--mut);border:1px solid #333;border-radius:999px;padding:3px 12px;margin:0 8px 8px 0}
+.bio{font-size:18px;color:#d2d2d7;margin:28px 0;white-space:pre-wrap}
+.avatar{width:108px;height:108px;border-radius:50%;object-fit:cover;display:block;margin:8px 0 4px;background:#1c1c1e;box-shadow:0 0 0 1px rgba(255,255,255,.1)}
+.avatar.mono{display:flex;align-items:center;justify-content:center;font:700 42px/1 'SF Pro Display',-apple-system,sans-serif;color:#fff;letter-spacing:.01em}
+.langtoggle{position:fixed;top:18px;right:20px;z-index:50;min-width:46px;padding:7px 14px;border-radius:999px;background:rgba(255,255,255,.08);color:var(--fg);border:1px solid rgba(255,255,255,.16);font:600 14px/1 'PingFang SC','SF Pro Text',-apple-system,system-ui,sans-serif;cursor:pointer;-webkit-tap-highlight-color:transparent;backdrop-filter:saturate(180%) blur(12px);-webkit-backdrop-filter:saturate(180%) blur(12px)}
+.langtoggle:hover{background:rgba(255,255,255,.16)}
+html.lang-zh .i18n-en{display:none}html.lang-en .i18n-zh{display:none}
+@media(max-width:520px){.langtoggle{top:12px;right:12px}}
+h2{font-size:14px;letter-spacing:.08em;text-transform:uppercase;color:#86868b;margin:40px 0 14px}
+ul{list-style:none;padding:0;margin:0}li{padding:8px 0;border-bottom:1px solid #1a1a1a;font-size:16px;color:#d2d2d7}
+.y{display:inline-block;min-width:52px;color:#6e6e73;font-variant-numeric:tabular-nums}
+li a,.bio a{color:var(--blue);text-decoration:none}
+.nbr{display:flex;flex-direction:column;padding:12px 14px;background:var(--card);border-radius:12px;margin:0 0 10px;text-decoration:none;color:var(--fg)}
+.nbr b{font-size:16px}.nbr span{font-size:13px;color:var(--mut);margin-top:2px}
+.cta{display:inline-block;margin:30px 12px 0 0;padding:14px 26px;background:var(--blue);color:#fff;border-radius:999px;text-decoration:none;font-weight:600;font-size:17px}
+.cta2{display:inline-block;margin:30px 0 0;padding:14px 26px;background:rgba(124,92,255,.16);color:#cbb9ff;border-radius:999px;text-decoration:none;font-weight:600;font-size:17px}
+.back{display:inline-block;margin-top:36px;color:var(--mut);text-decoration:none;font-size:15px}
+@media(max-width:520px){h1{font-size:32px}.wrap{padding:36px 18px 72px}}
+</style></head><body>
 <button class="langtoggle" id="langtoggle" type="button" aria-label="切换语言 / Toggle language"><span class="i18n-zh">EN</span><span class="i18n-en">中</span></button>
 <div class="wrap">
 <a class="eyebrow" href="/"><span class="i18n-zh">投资人图谱</span><span class="i18n-en">Tech Investor Graph</span> ↗</a>

diff --git a/index.html b/index.html
@@ -1,5 +1,5 @@
 <!DOCTYPE html>
-<html lang="en">
+<html lang="zh-CN">
 <head>
 <meta charset="UTF-8">
 <meta name="viewport" content="width=device-width, initial-scale=1.0, viewport-fit=cover">
